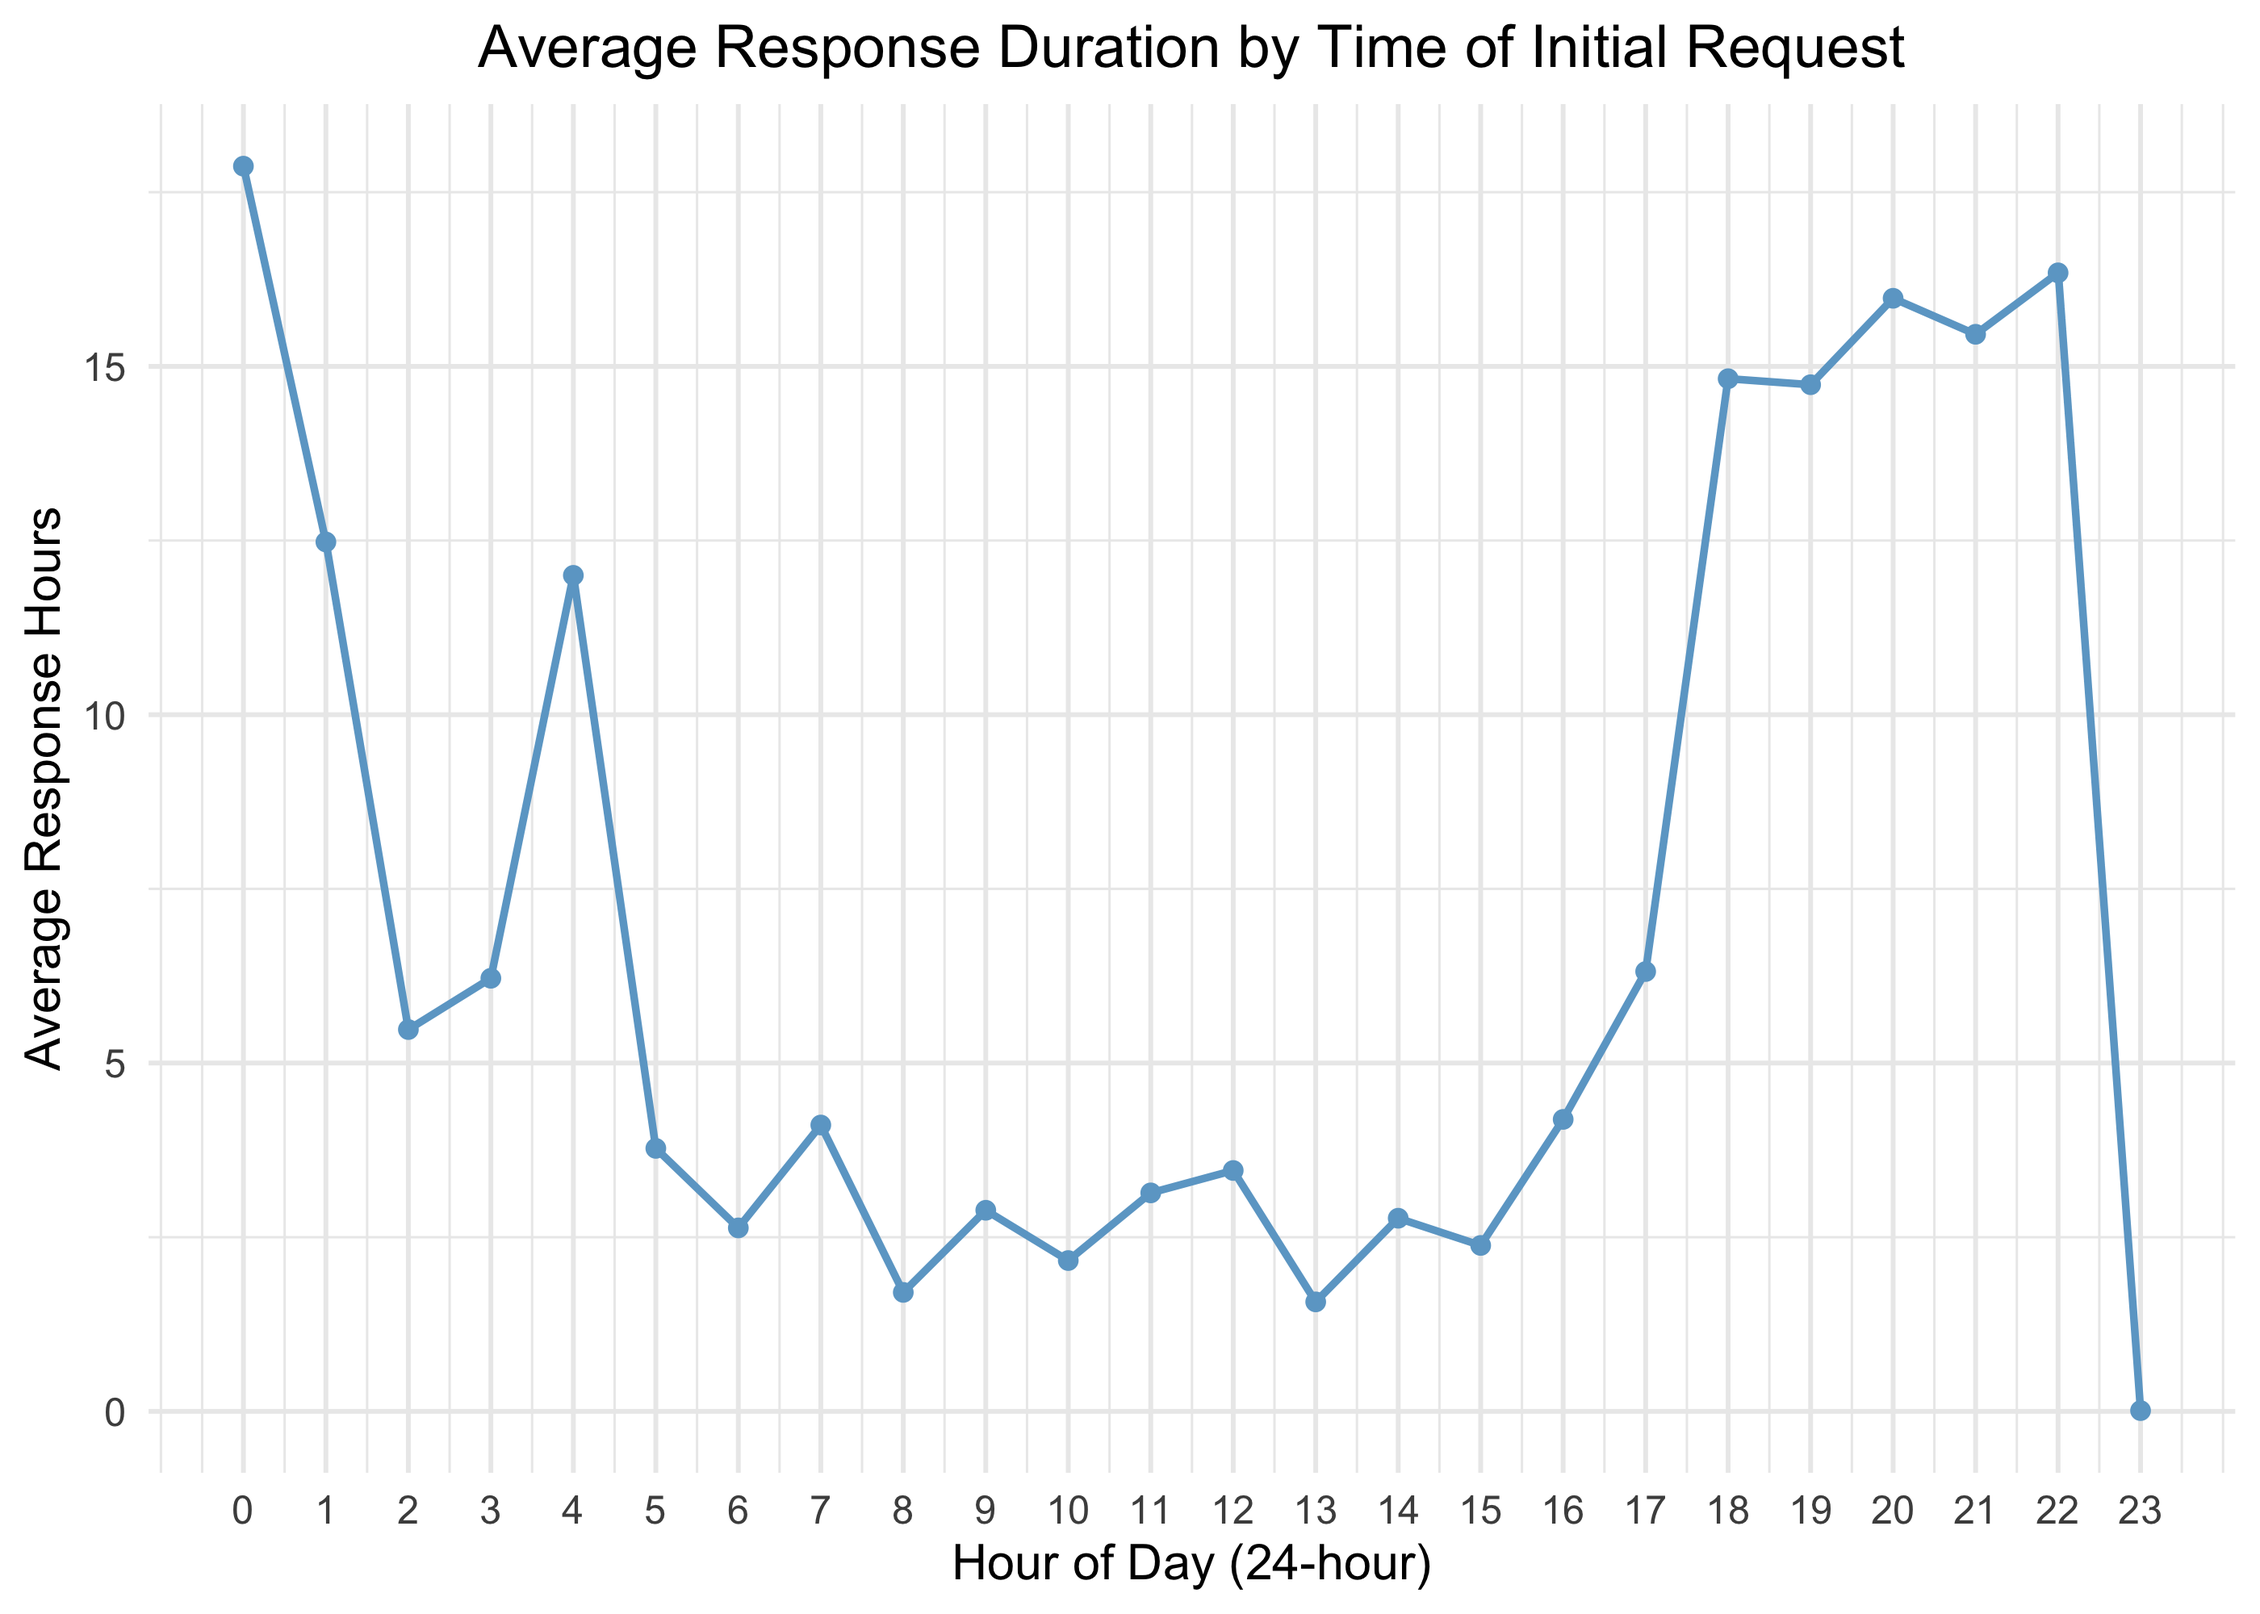
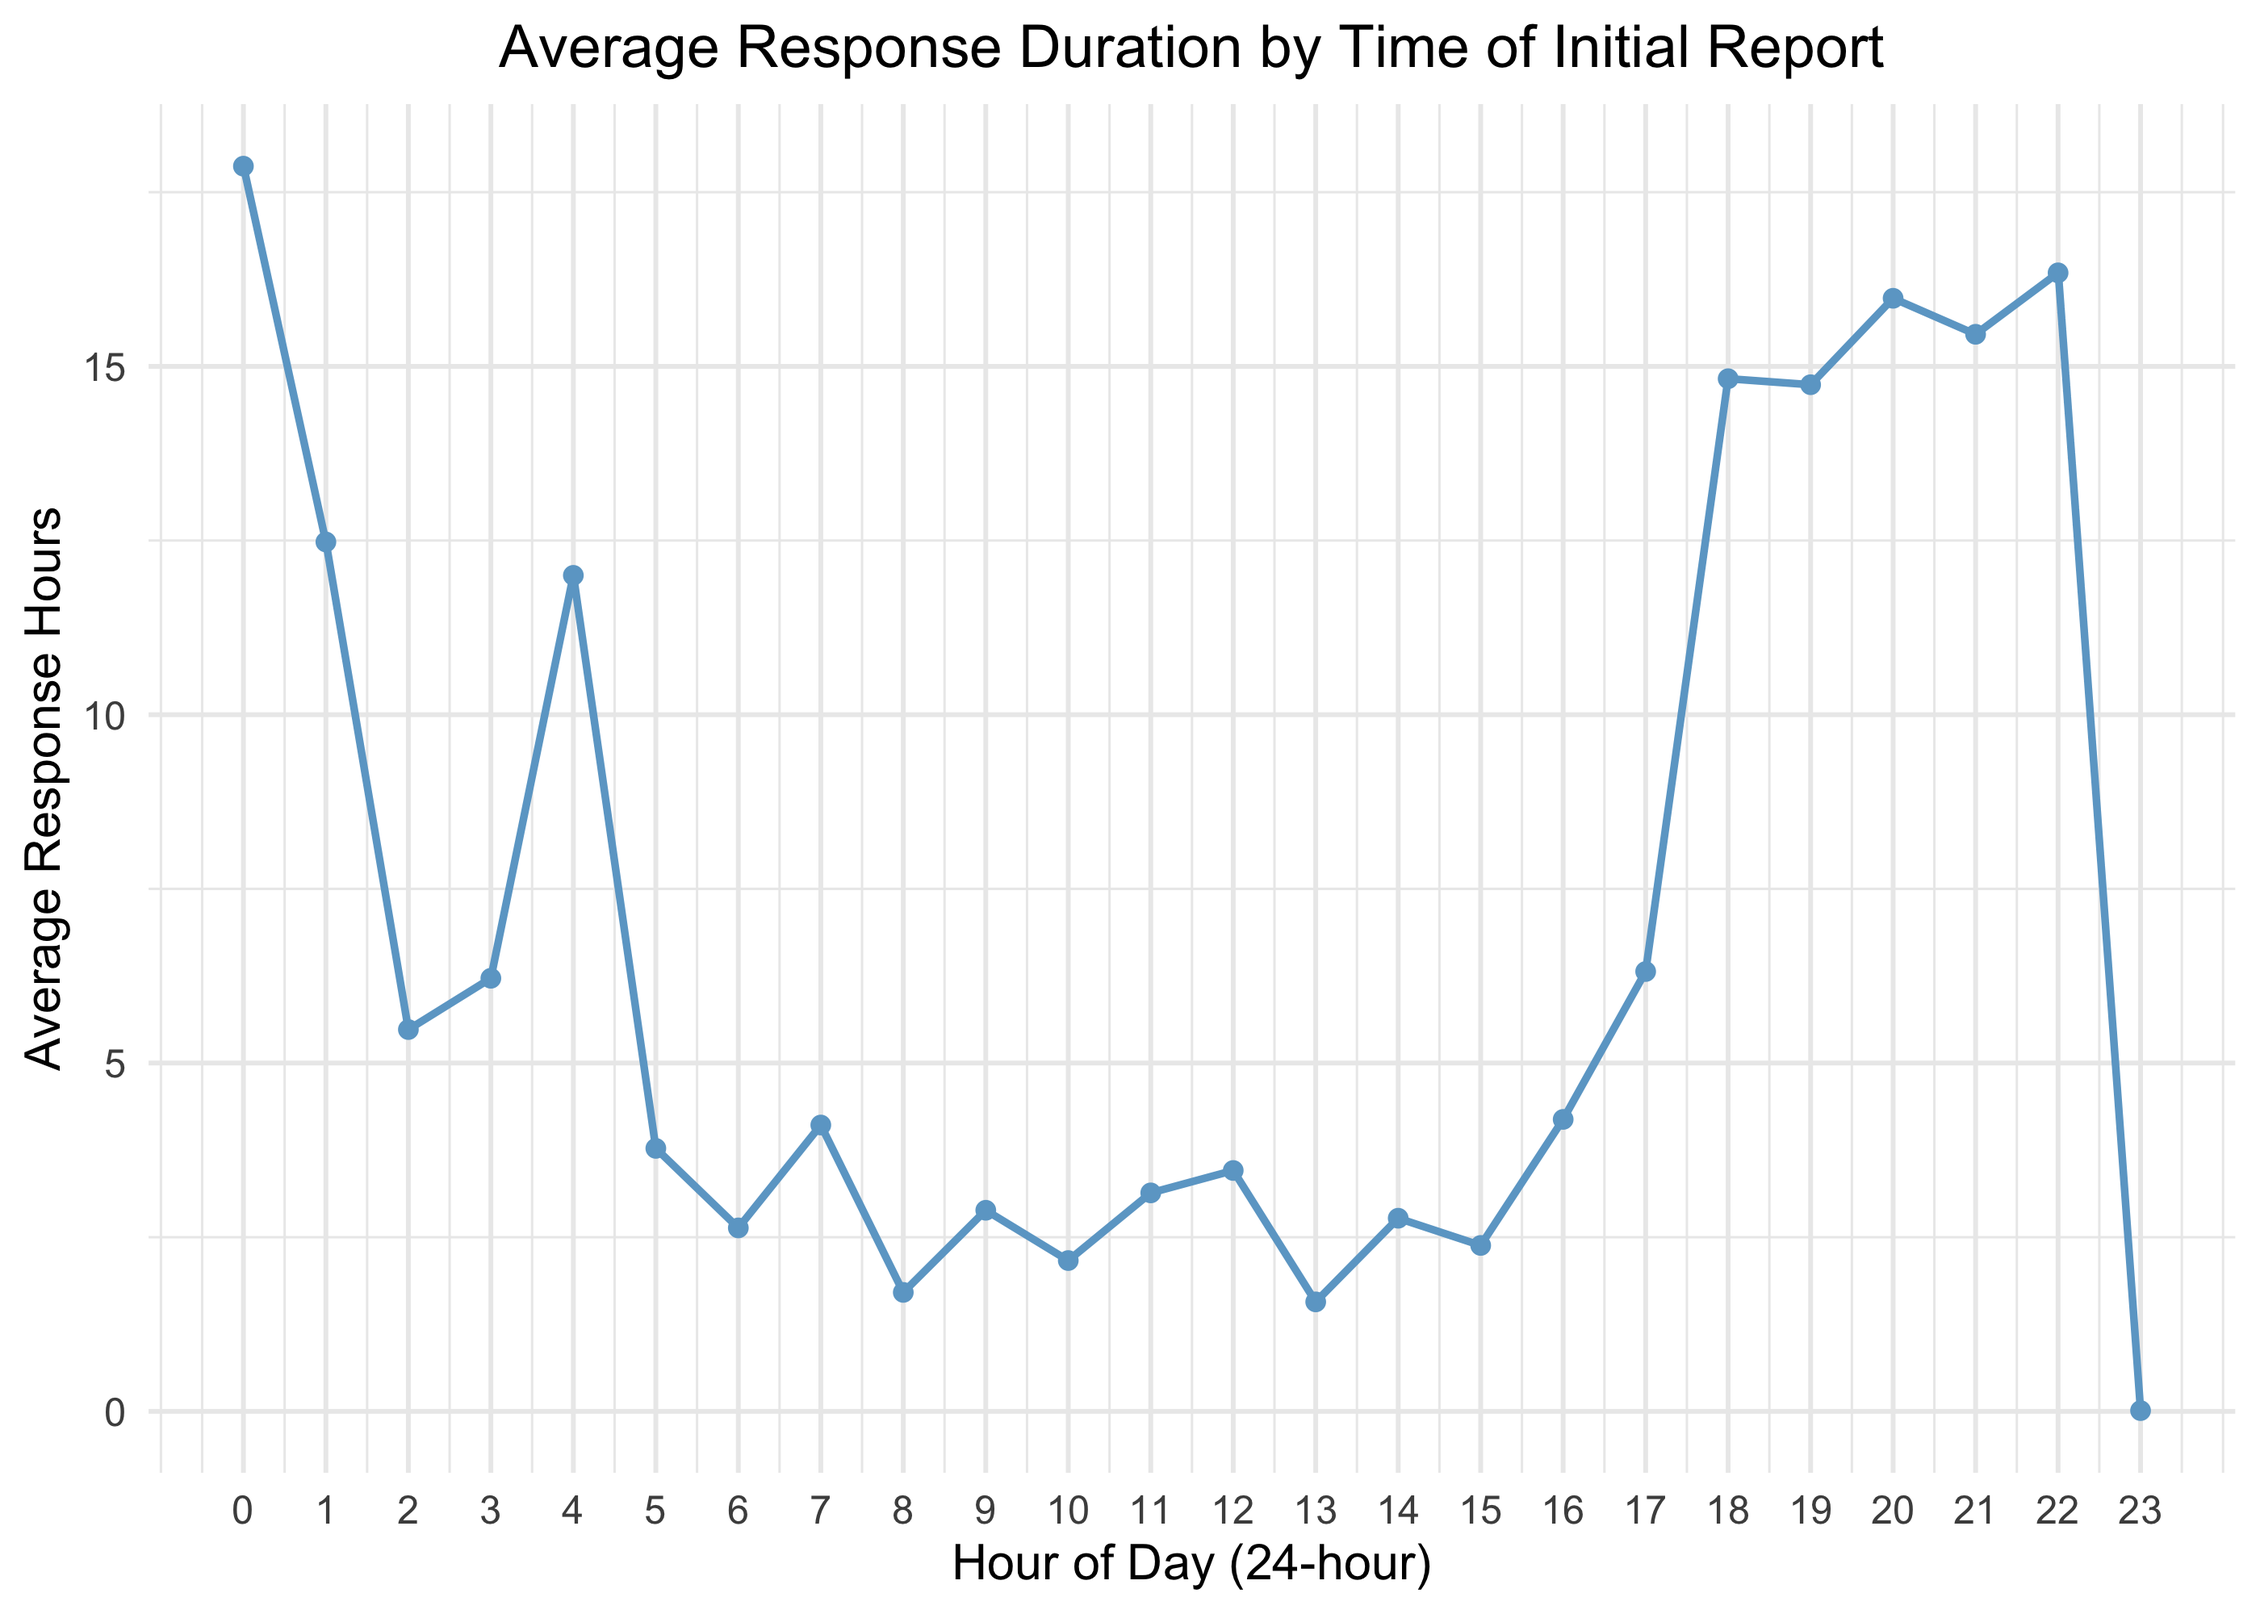
rephrase

Changed region(s): [[0.2175, 0.0, 0.8389, 0.062]]

diff --git a/Report.html b/Report.html
@@ -390,9 +390,9 @@ library(fuzzyjoin)
 library(knitr)
 library(base64enc)
 library(leaflet)
-library(sf)
-
-source(&quot;data_cleaning.R&quot;) </code></pre>
+library(sf)</code></pre>
+<pre><code>## Warning: package &#39;sf&#39; was built under R version 4.5.2</code></pre>
+<pre class="r"><code>source(&quot;data_cleaning.R&quot;) </code></pre>
 <div id="tiny-paws-big-rescue" class="section level1">
 <h1>Tiny Paws, Big Rescue:</h1>
 </div>
@@ -1315,14 +1315,14 @@ quickly animals are noticed and reported.</p>
 <div id="response-duration" class="section level3">
 <h3>Response Duration</h3>
 <p>We would like to explore how response duration, which we define as
-the duration between the initial request and the time that Rangers
+the duration between the initial report and the time that Rangers
 arrived at the site (<code>date_and_time_of_ranger_response</code> -
 <code>date_and_time_of_initial_call</code>), is associated with
 different incident characteristics.</p>
 <p><br></p>
-<div id="average-response-duration-by-time-of-initial-request"
+<div id="average-response-duration-by-time-of-initial-report"
 class="section level4">
-<h4>Average Response Duration by Time of Initial Request</h4>
+<h4>Average Response Duration by Time of Initial report</h4>
 <pre class="r"><code>ranger_response_hr = park_ranger_new %&gt;% 
   mutate(day_diff = as.numeric(difftime(response_date, call_date, units = &quot;days&quot;)),
          time_diff_hrs = as.numeric(difftime(response_time, call_time, units = &quot;hours&quot;)),
@@ -1337,7 +1337,7 @@ ranger_response_hr %&gt;%
   geom_line(linewidth = 0.8, color = &quot;skyblue3&quot;) + 
   scale_x_continuous(breaks = 0:23) +
   labs(
-    title = &quot;Average Response Duration by Time of Initial Request&quot;,
+    title = &quot;Average Response Duration by Time of Initial Report&quot;,
     x = &quot;Hour of Day (24-hour)&quot;,
     y = &quot;Average Response Hours&quot;)</code></pre>
 <p><img src="Report_files/figure-html/unnamed-chunk-11-1.png" width="90%" /></p>
@@ -1346,9 +1346,9 @@ ranger_response_hr %&gt;%
 <ul>
 <li><p>Cases reported during regular daytime hours (approximately 8:00 -
 16:00) have the shortest response duration, typically around 2-4 hours
-from the time of initial request to the arrival of a Ranger. This
-pattern suggests that Ranger availability and operational capacity are
-highest during standard working hours.</p></li>
+from the time of initial report to the arrival of a Ranger. This pattern
+suggests that Ranger availability and operational capacity are highest
+during standard working hours.</p></li>
 <li><p>Response duration keeps increasing in the late afternoon and
 early evening (17:00-22:00), reaching an extended period of long delays
 in responses, with average response duration approaching 15 hours. This
@@ -1486,7 +1486,7 @@ resource constraints relative to the other boroughs.</p></li>
 <li><p>Queens, the Bronx, and Staten Island have slightly left-shifted
 peaks on the log scale, indicating somewhat faster responses on average.
 Operationally, these boroughs may experience less congestion and fewer
-competing requests, contributing to slightly shorter response
+competing reports, contributing to slightly shorter response
 duration.</p></li>
 </ul>
 <p>Despite these minor shifts in central tendency, the overall shapes of
